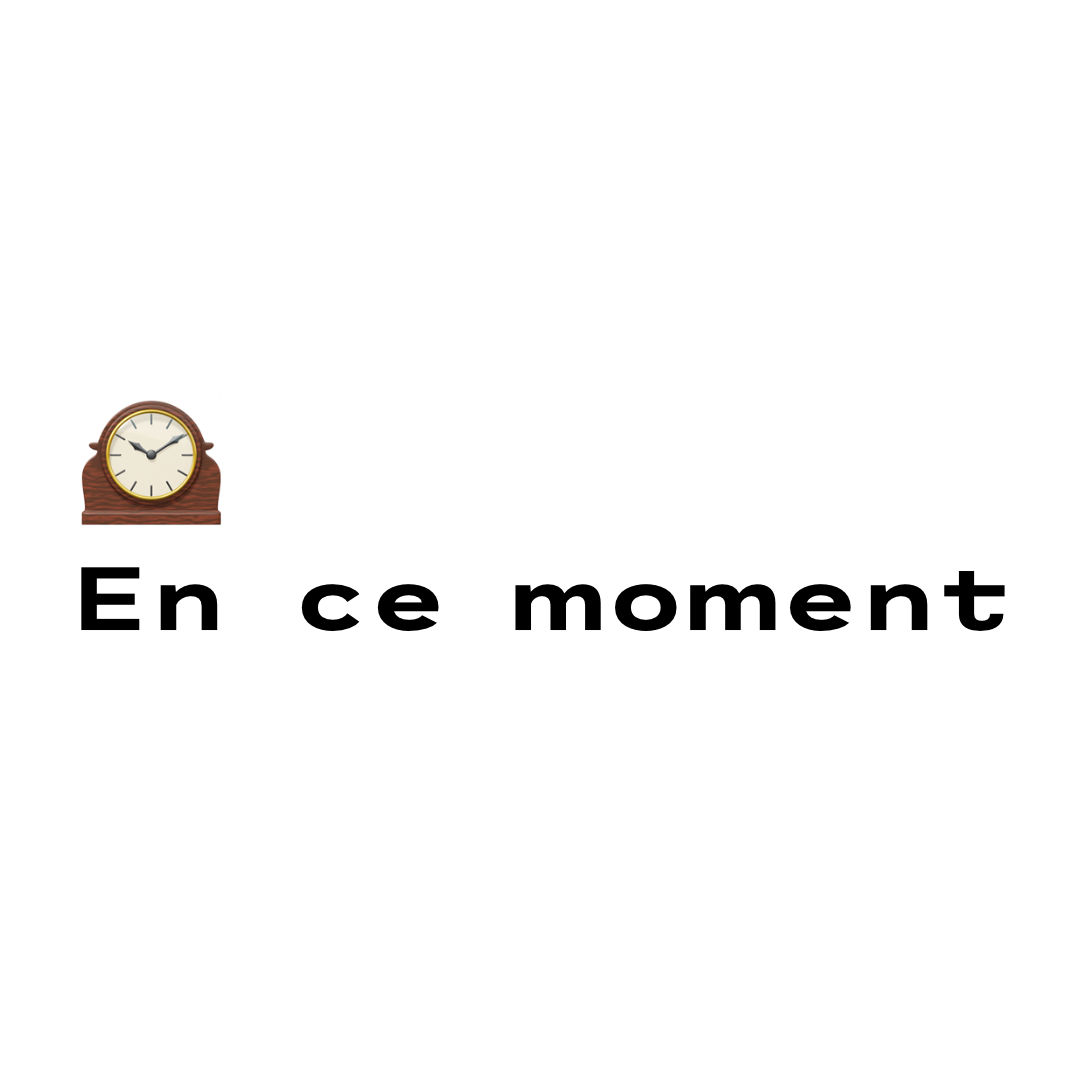
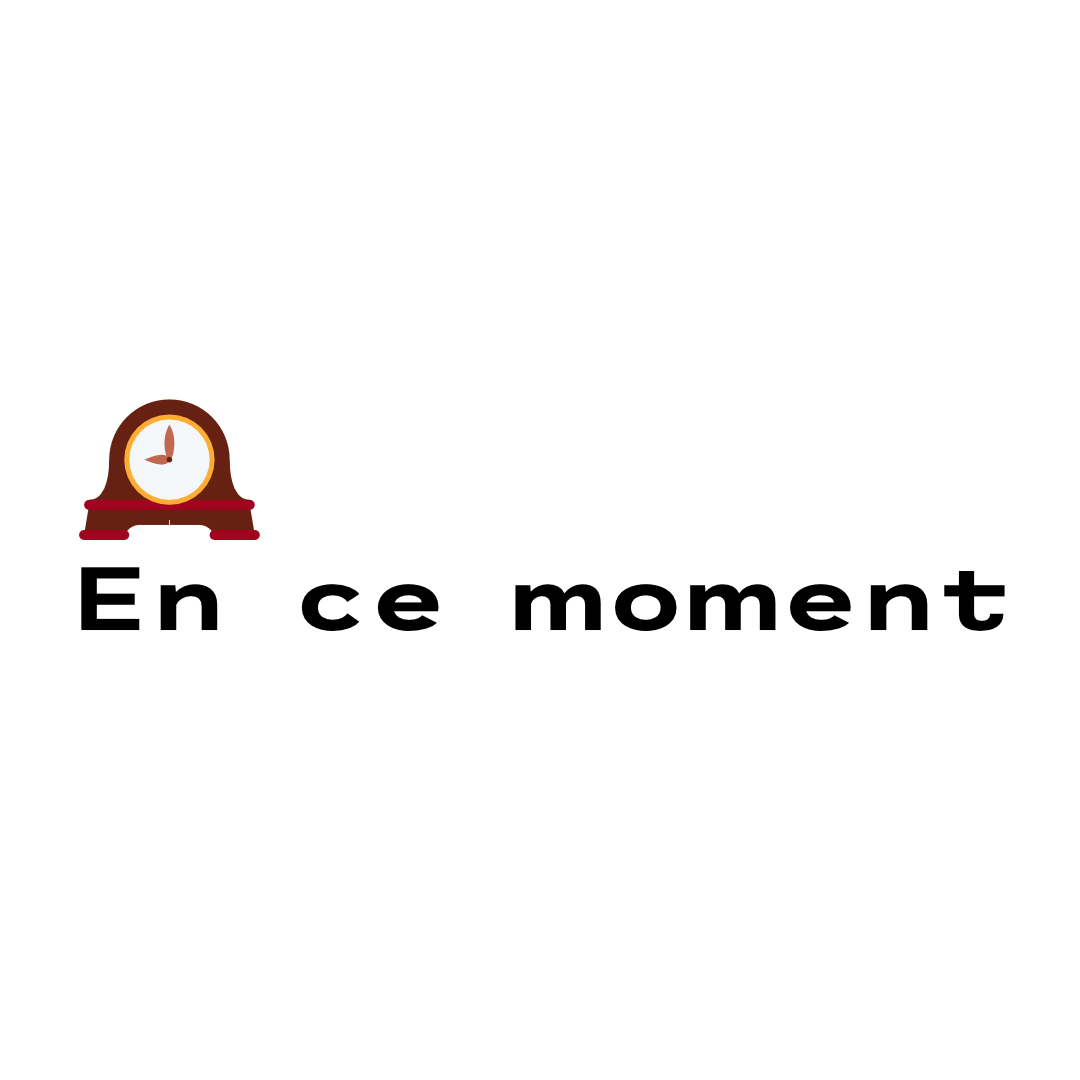
🌘 Better copyright info

Changed region(s): [[0.0611, 0.3667, 0.2444, 0.5194]]

diff --git a/README.md b/README.md
@@ -39,3 +39,13 @@ Une fois ce fichier édité, il faut ouvrir une Pull Request, que je vérifierai
 #### Notes
 
 1. La nuance de couleur se note en degrés, de `0` à `360`, en fonction de sa position sur la roue des couleurs. Pour trouver une nuance, l’outil <https://paletton.com> peut être utile (voir la valeur de `hue`).
+
+## Licence
+
+Le code est distribué sous license libre GNU AGPL.
+
+Le fichier de typographie inclus est <a href="https://github.com/Etcetera-Type-Co/Trispace">© 2020 Tyler Fink et ses contributeur·ices</a>, distribué sous licence OFL. Voir `site/assets/fonts/OFL.txt`.
+
+L’emoji utilisé pour la favicon et l’image OpenGraph est tiré de la collection Twemoji <a href="https://twemoji.twitter.com/">© 2020 Twitter, Inc et autres contributeur·ices</a>, disponible sous licence <a href="https://creativecommons.org/licenses/by/4.0/">CC-BY 4.0</a>. Ces deux images du projet sont partagées sous la même licence <a href="https://creativecommons.org/licenses/by/4.0/">CC-BY 4.0</a>.
+
+Le gif `under-construction.gif` n’a pas de copyright connu. J’aime imaginer qu’il fait partie du Patrimoine universel de l’humanité et qu’une copie a sa place dans un musée de l’UNESCO.
